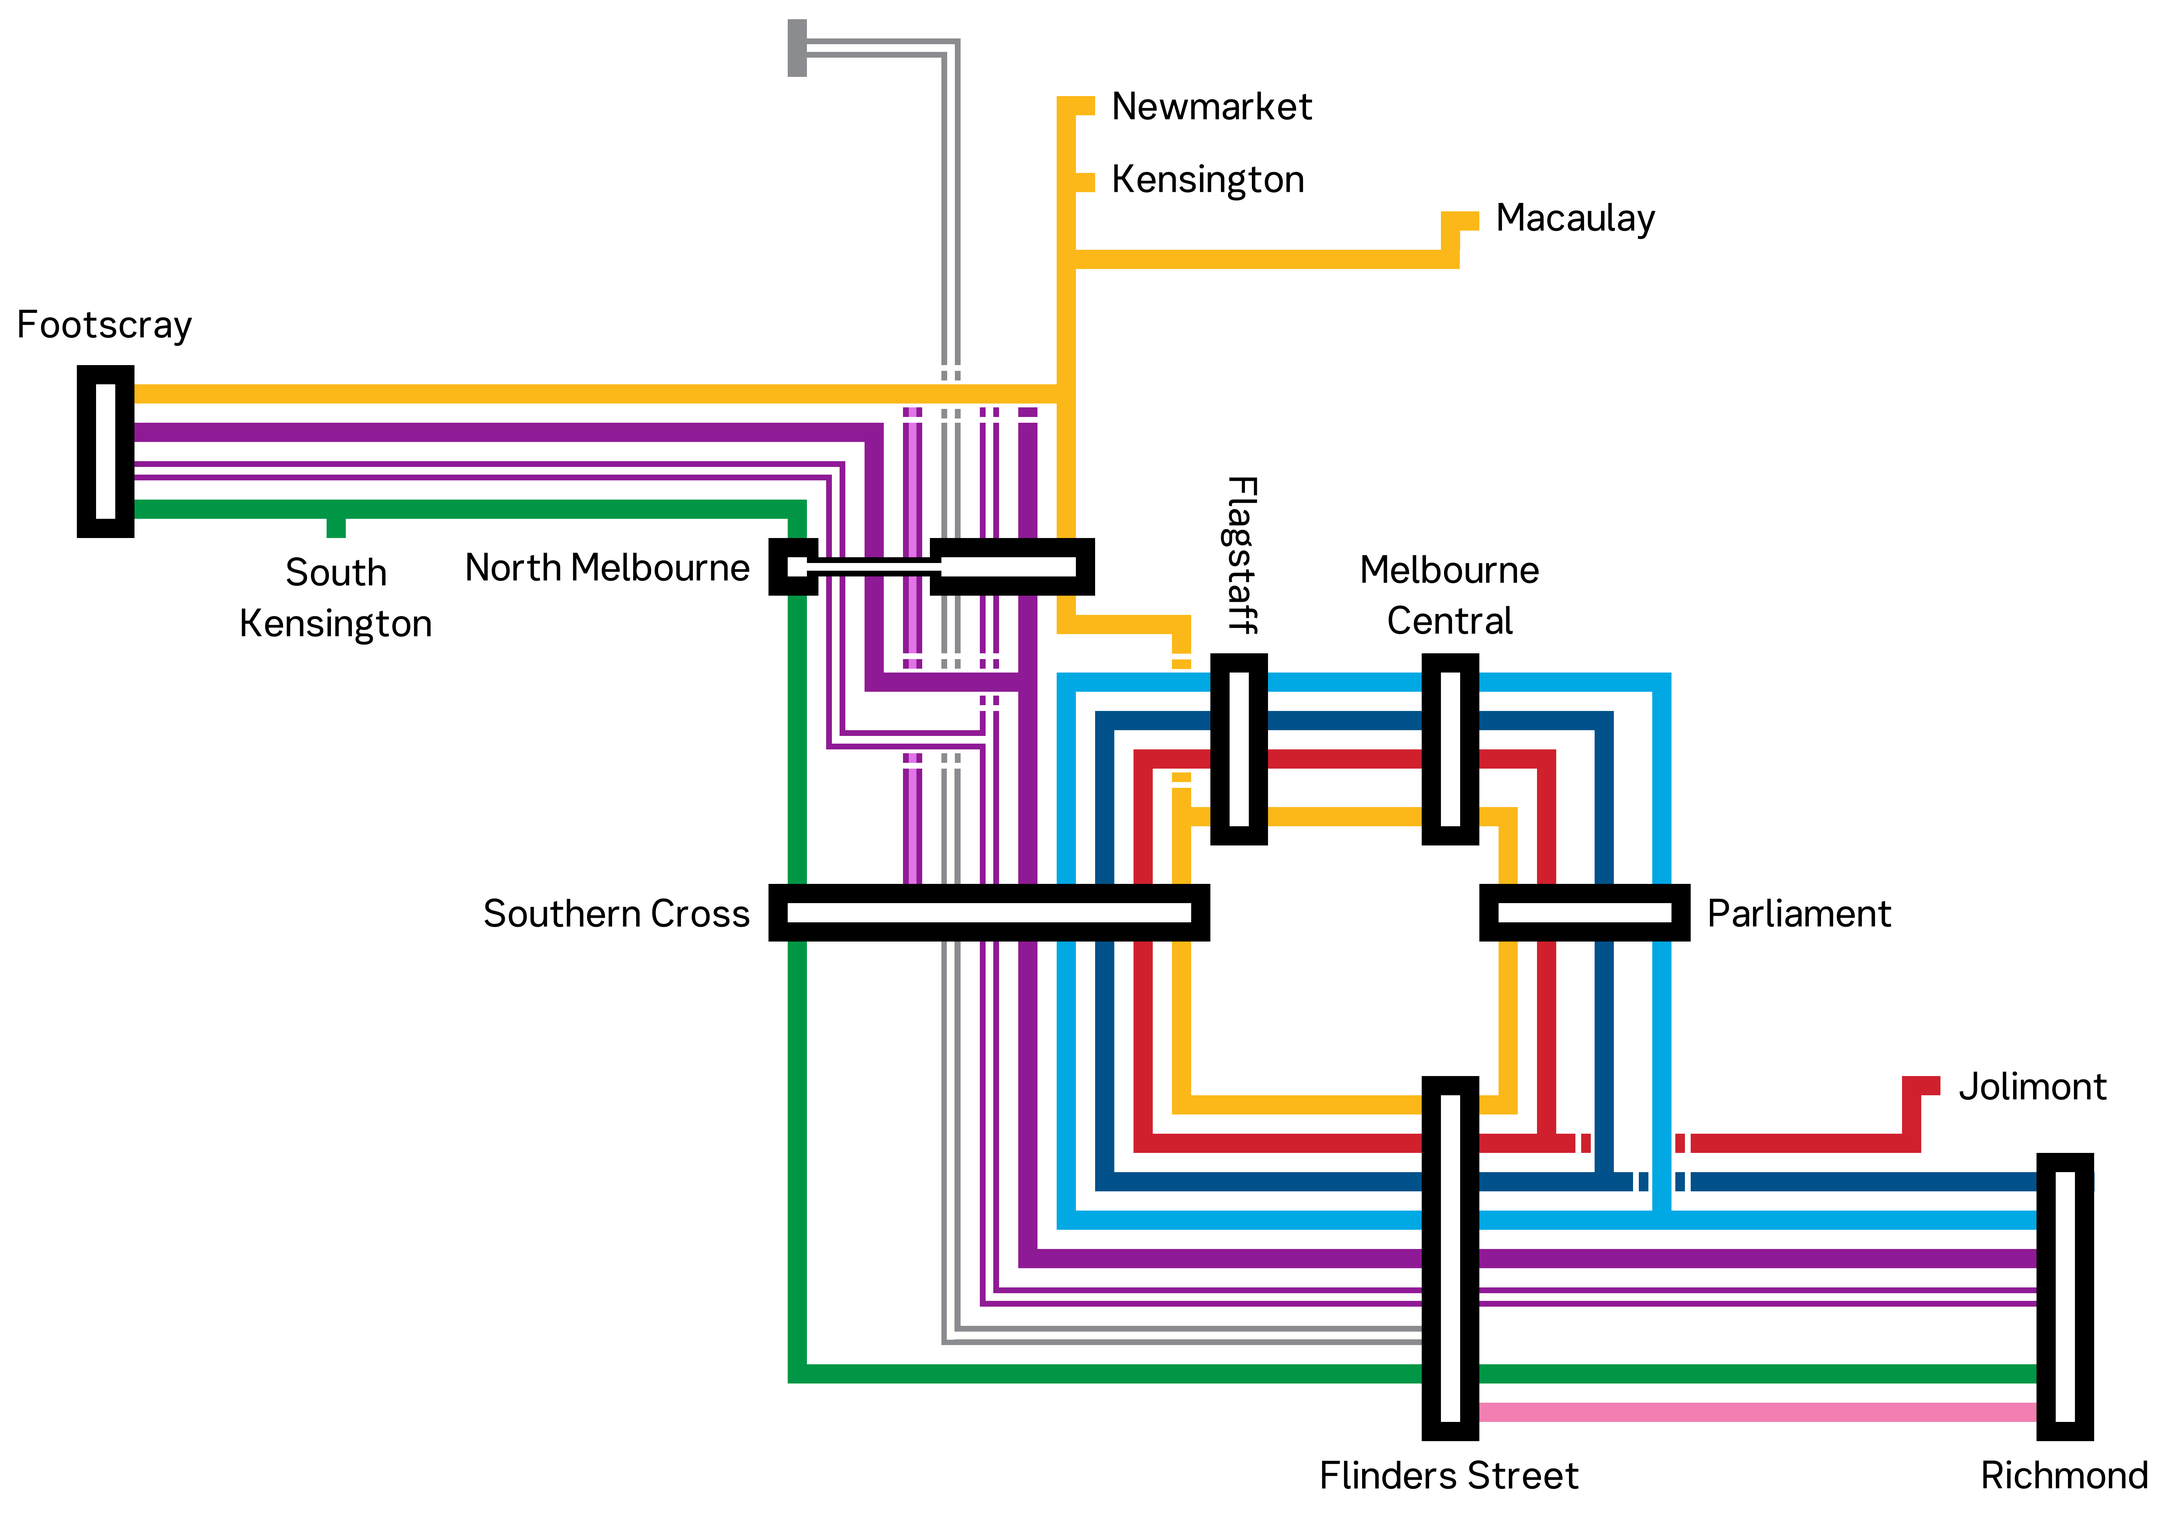
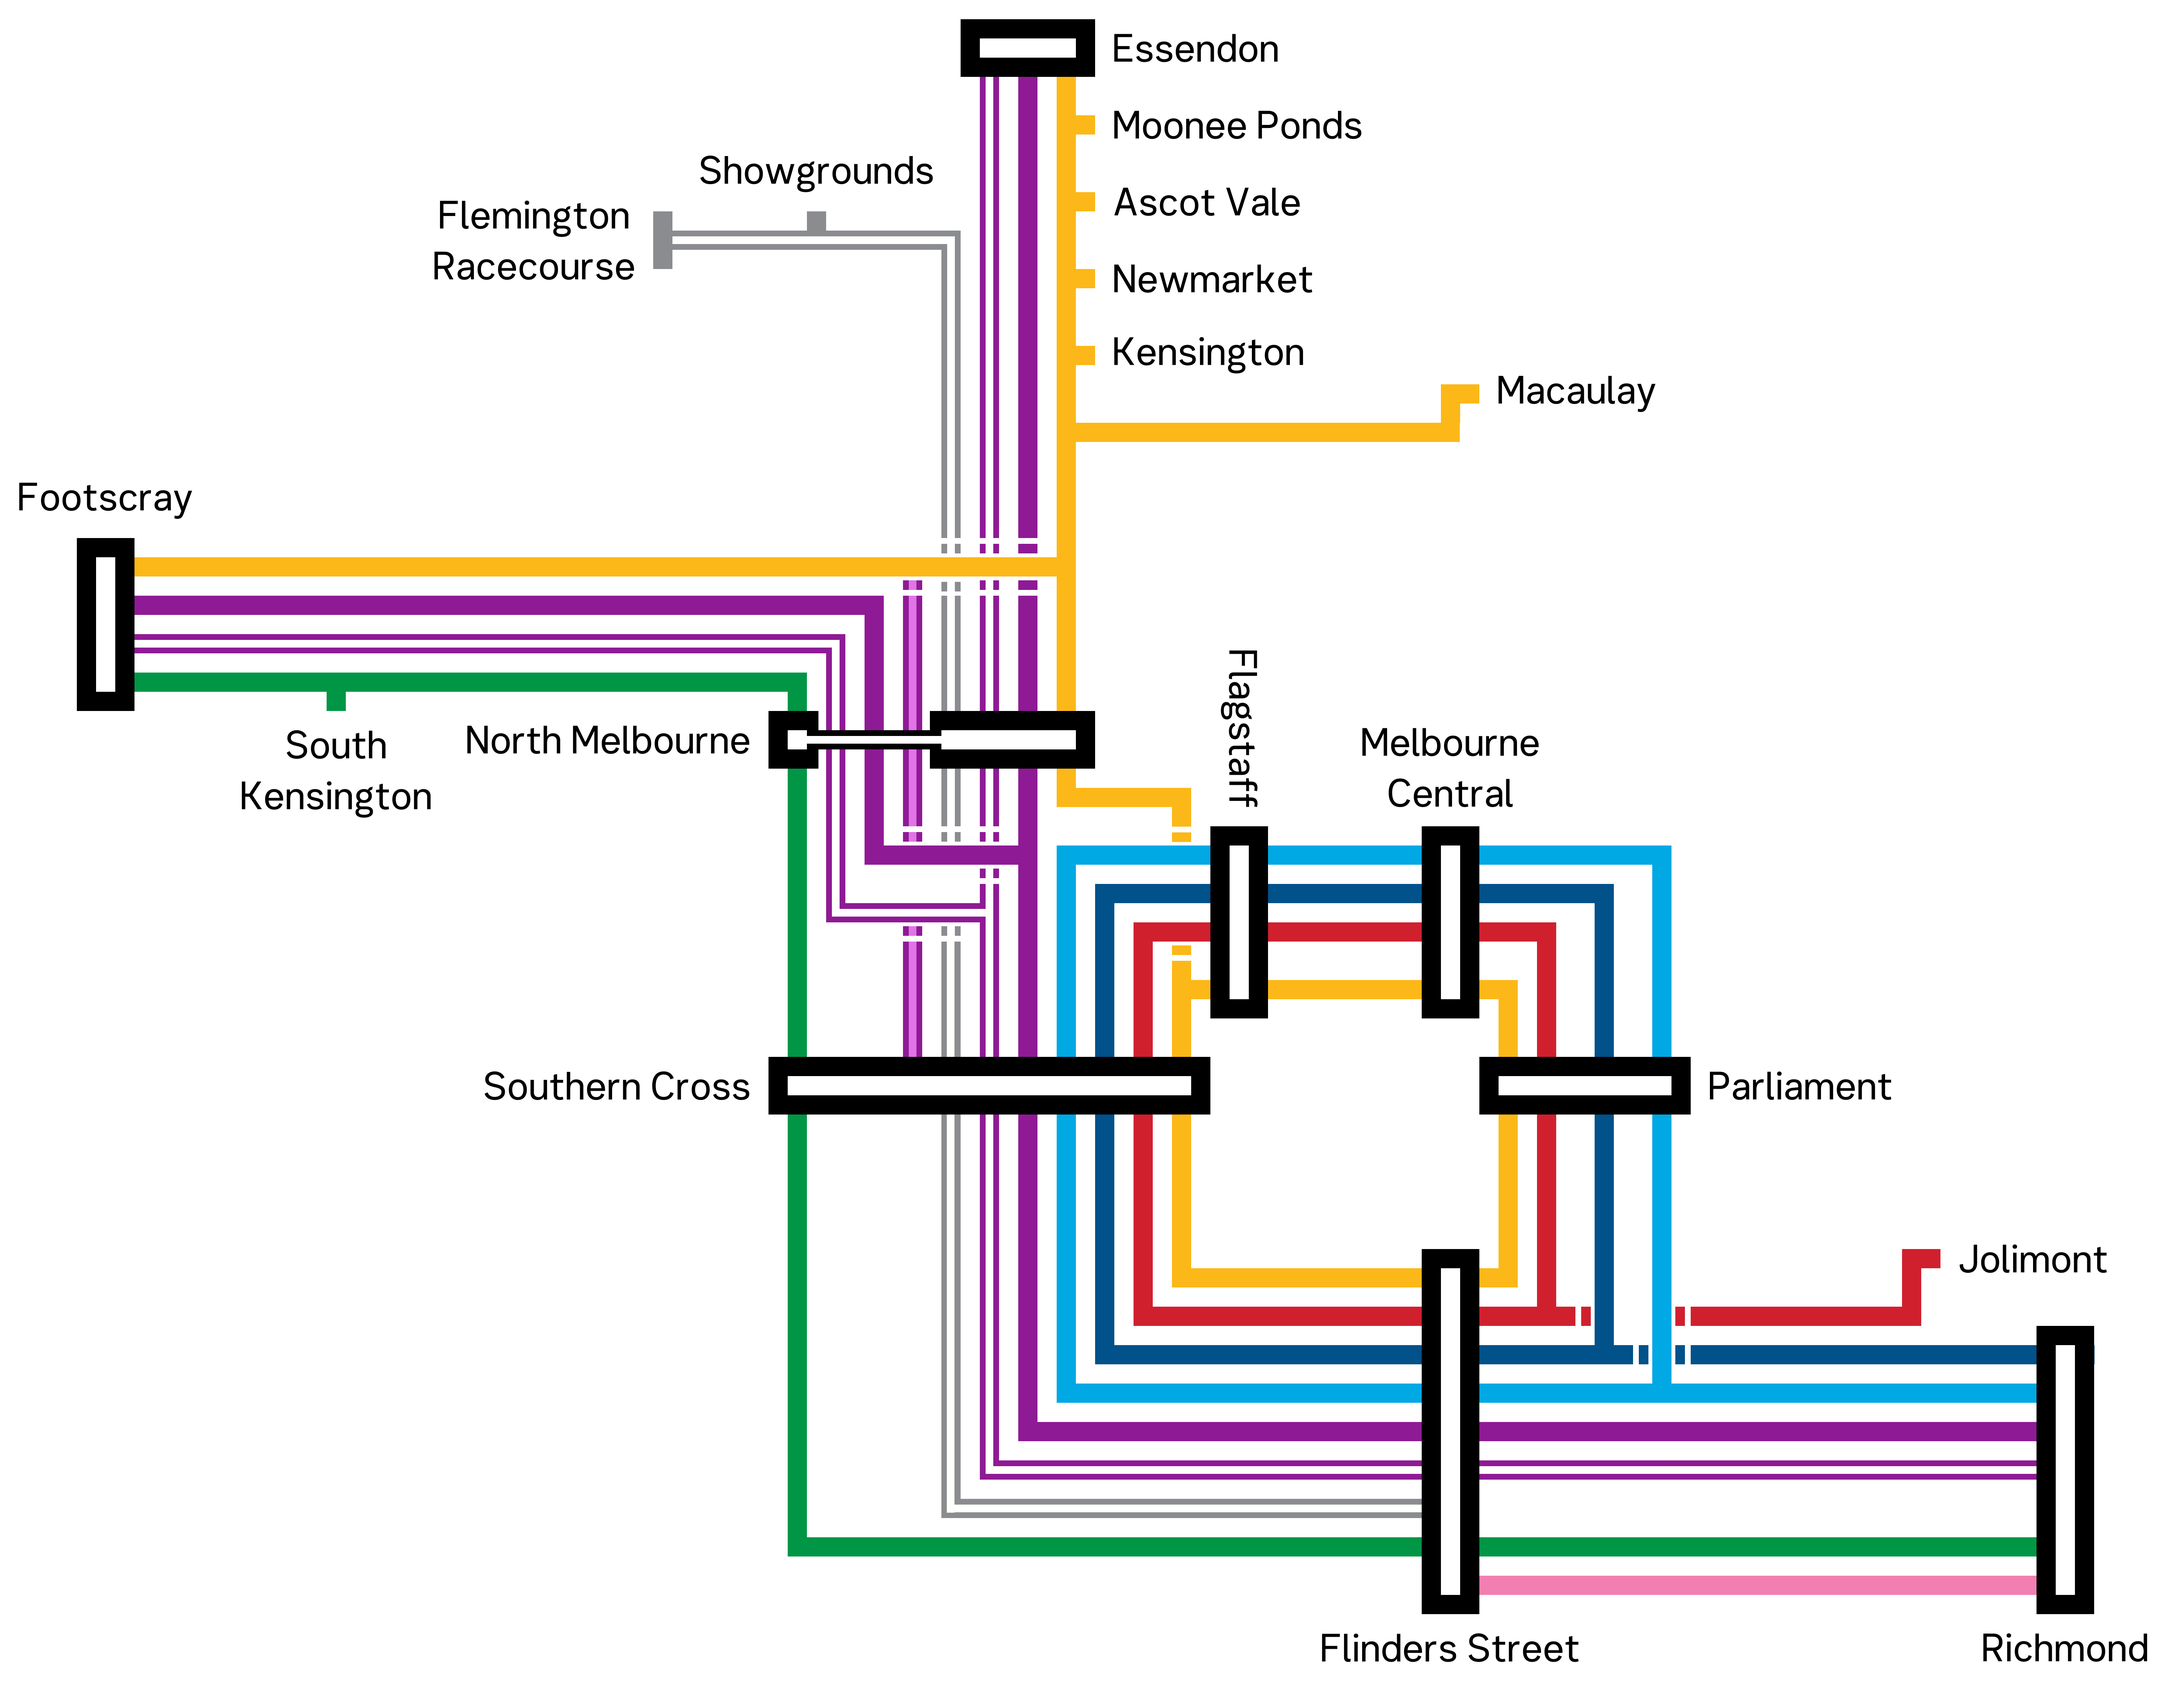
updated image and inputted offset values

Changed region(s): [[0.0, 0.0, 0.8722, 0.6851], [0.3427, 0.6851, 0.9968, 0.9965]]

diff --git a/utils/trainlogger/map/mapimage.py b/utils/trainlogger/map/mapimage.py
@@ -2,8 +2,8 @@ from PIL import Image, ImageDraw
 import tkinter as tk
 from PIL import ImageTk
 
-x_offset = 0
-y_offset = 0
+x_offset = 800
+y_offset = 1500
 
 class MapImageHandler:
     def __init__(self, map_image_path, station_order_dictionary):
